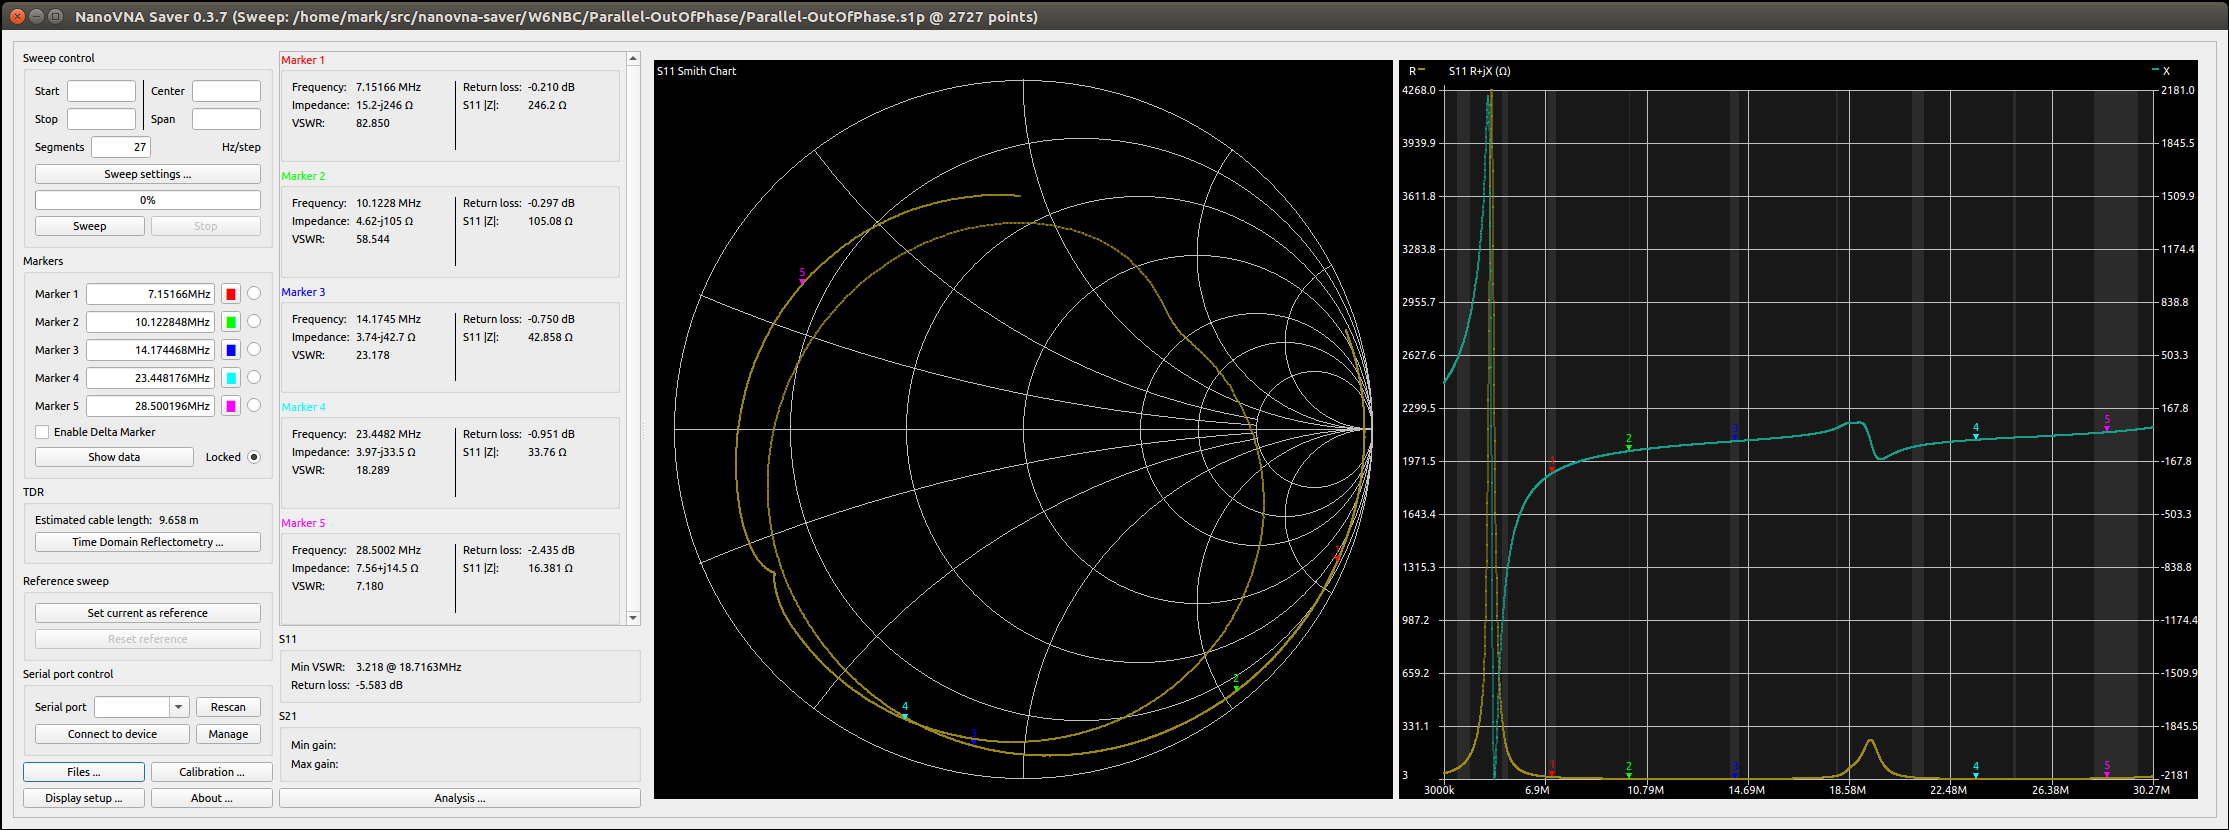
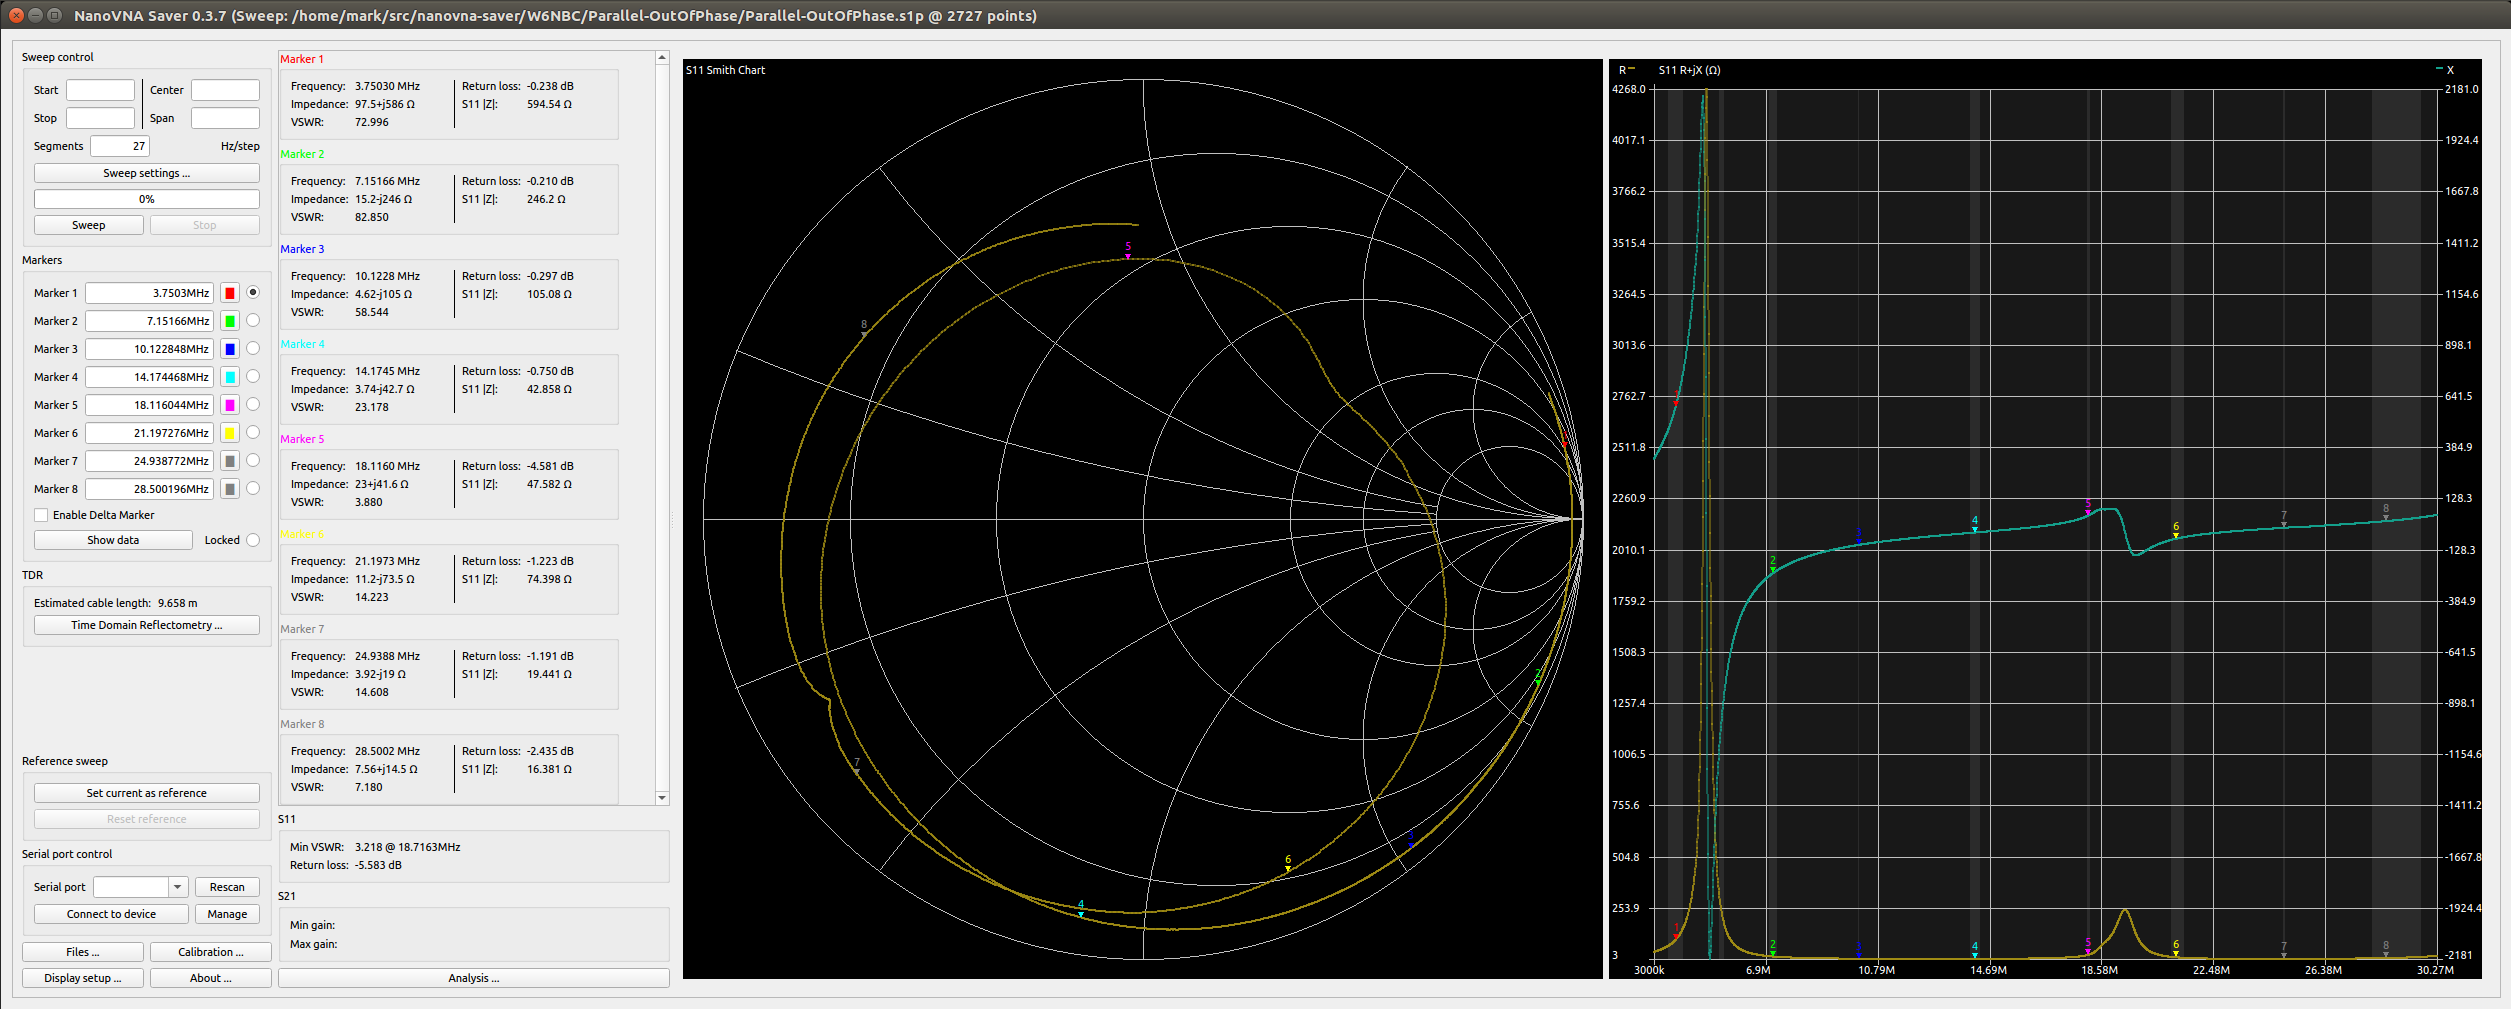
Adding detail to the README

diff --git a/NanoVNA Saver Files/README.md b/NanoVNA Saver Files/README.md
@@ -1,0 +1,62 @@
+# Caveat with the data as of 2020-10-17
+I'm posting the first data I collected on 2020-10-17.  BUT: I think I've got some bad wiring, loose connectors, or something. It's pretty noisy when things move of jiggle. So this data is pretty suspect, even though the graphs look smooth.  That just means I managed to sit still while the collection was running.  There some pretty different data below that should be very similar, and it's not.
+
+# How this was collected:
+I used my NanoVNA-F, and NanoVNA-Saver v0.3.7.  I configured Saver to scan from 3.0MHz to 30.27MHz with 27 Segments. This SHOULD have had it testing every 10kHz, but the raw data suggests otherwise.  _sigh_  Anyway.  That raw data was saved into the respective directories.  
+
+I also wrote a script that takes the raw data and splits it out by band into individual smaller Saver files.  That raw data is included here, but Saver doesn't have a way to automate displaying and capturing data, so for the PNGs and tabular data, I'm just using the full spectrum file to minimize the number of screen captures I need to take.
+
+The configurations I tested are:
+* Both loops in parallel:
+  * EW loop "in phase"
+  * EW loop "out of phase"
+* Both loops in series:
+  * EW loop "in phase"
+  * EW loop "out of phase"
+* Indiviual loops:
+  * NS loop
+  * EW loop "in phase" (that relay in it's unenergized state)
+  * EW loop "out out phase" (that relay energized. SHOULD BE no different at all.)
+
+The configurations were switched with relays as described in the `Switching` directory parallel to this one.
+
+# Expectations:
+* I expect the Phase to not affect the impedance of the antenna much, so the "in phase" and "out of phase" version of Paralle and Series should be very similar.
+* I expect the Parallel loops to be a lower impedance than the Single loops, and the Series loops to be a higher impedance than the Single loops.
+* I expect the two Single loops to be about the same, though will probably have some slight difference just from differences in construction and their environment.
+
+# Tabular data
+This table just summarizes the complex impedances at the markers in each of the images below.  I THINK the R+jX values are what you need
+to figure out how hard your tuner is working?  Maybe?
+
+| Configuration         | 80m 3.75MHz | 40m 7.15MHz | 30m 10.12MHz | 20m 14.17MHz | 17m 18.11MHz | 15m 21.20MHz | 12m 24.94MHz | 10m 28.5MHz |
+|-----------------------|-------------|-------------|--------------|--------------|--------------|--------------|--------------|-------------|
+| Parallel In Phase     | 494+j375    | 20.1-j256   | 5.82-j109    | 7.17-j48.7   | 31.1+j31.2   | 15.6-j52.3   | 3.9-j19.4    | 7.44+j9.06  |
+| Parallel Out of Phase | 97.5+j586   | 15.2-j246   | 4.62-j105    | 3.74-j42.7   | 23.0+j41.6   | 11.2-j73.5   | 3.92-j19     | 7.56+j14.5  |
+| Series In Phase       | 228-j1.04k  | 6.82-j158   | 19.7-j225    | 3.0-j74.8    | 13.1-j17.7   | 2.96-j38.7   | 5.18-j1.71   | 2.58-j18.4  |
+| Series Out Of Phase   | 219-j1.06k  | 7.30-j160   | 18.7-j219    | 2.96-j73.3   | 7.56-j23.4   | 3.64-j41.1   | 5.64-j477m   | 2.66-j17.5  |
+| Single NS             | 1k+j1.6k    | 16.5-j269   | 5.62-j129    | 4.14-j70.6   | 21.9-j11.1   | 6.19-j56.8   | 2.43-j27.6   | 3.35-j10.4  |
+| Single EW             | 1.8k+2.26k  | 14.0-j242   | 4.8-j118     | 6.82-j54.6   | 23.8+j20.7   | 4.26-j50.8   | 2.81-j20.1   | 4.75+j2.79  |
+
+# Graphs!
+## Parallel, In Phase
+![Parallel, In Phase](Parallel-InPhase.png)
+
+## Parallel, Out of Phase
+![Parallel, Out of Phase](Parallel-OutOfPhase.png)
+
+## Series, In Phase
+![Series, In Phase](Series-InPhase.png)
+
+## Series, Out of Phase
+![Series, Out of Phase](Series-OutOfPhase.png)
+
+## Single, North/South loop
+![Single, North/South loop](Single-NS.png)
+
+## Single, East/West loop, "In Phase"
+![Single, East/West loop, "In Phase"](Single-EW-InPhase.png)
+
+## Single, East/West loop, "Out of Phase"
+![Single, East/West loop, "Out of Phase"](Single-EW-OutOfPhase.png)
+
